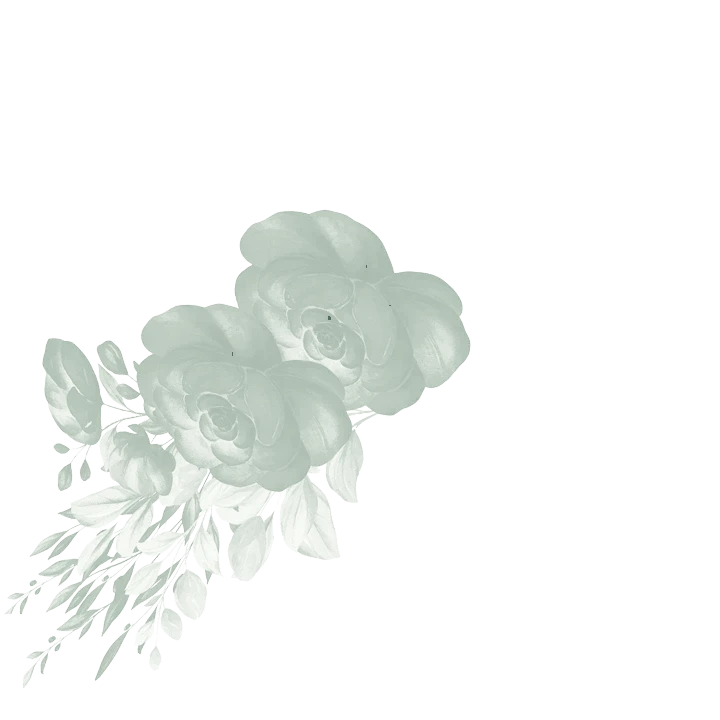
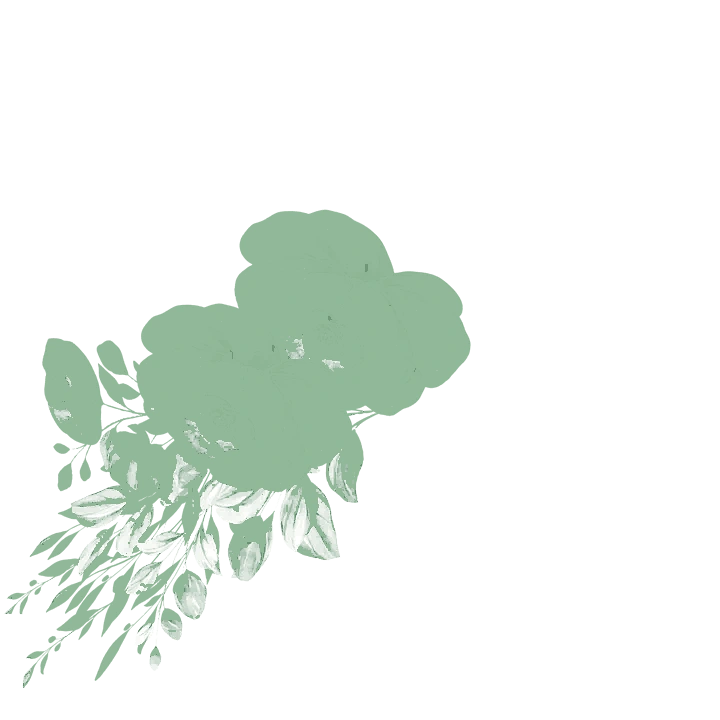
fix(movement): hide navbar and ornaments on cover, refine flower colors to crisp white and vivid sage with bronze leaves, and scroll to first page on open

Changed region(s): [[0.0, 0.275, 0.6722, 0.9472]]

diff --git a/public/templates/movement/index.html b/public/templates/movement/index.html
@@ -126,25 +126,10 @@
  <div class="wds-cover-dialog">
  <div class="wds-cover-content">
  <div class="wds-cover-overlay"></div>
- 
- <!-- Corner Flowers with subtle swaying animations -->
- <div class="wds-cover-flower wds-flower-top-right goyang-1">
-   <img src="./assets/flower_sage_1.webp" alt="Flower Top Right" />
- </div>
- <div class="wds-cover-flower wds-flower-bottom-left goyang-2">
-   <img src="./assets/flower_sage_2.webp" alt="Flower Bottom Left" />
- </div>
- <div class="wds-cover-flower wds-flower-top-left goyang-3">
-   <img src="./assets/flower_sage_3.webp" alt="Flower Top Left" />
- </div>
 
  <div class="wds-cover-body">
  <div class="centered-box">
  <div style="text-align:center; width:100%;">
- 
- <div class="elementor-image wds-image-cover">
-   <img src="./assets/ornament_header.webp" style="max-width:180px;height:auto;display:inline-block;" alt="Header Ornament" />
- </div>
  
  <div class="wds-text-cover">The Wedding Of</div>
  
@@ -1888,6 +1873,37 @@ Penerima: alamat kado">
 /* =====================================================================
    WDS COVER MODAL (SAGE GREEN THEME - DARI COVER MOVEMENT)
    ===================================================================== */
+
+/* =====================================================================
+   HIDE NAVBAR & FLOATING CONTROLS WHILE COVER IS ACTIVE
+   ===================================================================== */
+body:not(.wds-opened) .elementor-element-32e9e884,
+body:not(.wds-opened) section.elementor-element-32e9e884,
+body:not(.wds-opened) .storykami-floating-controls,
+body.wds-cover-active .elementor-element-32e9e884,
+body.wds-cover-active section.elementor-element-32e9e884,
+body.wds-cover-active .storykami-floating-controls {
+  display: none !important;
+  opacity: 0 !important;
+  visibility: hidden !important;
+  pointer-events: none !important;
+}
+
+body.wds-opened .elementor-element-32e9e884,
+body.wds-opened section.elementor-element-32e9e884,
+body.wds-opened .storykami-floating-controls {
+  display: flex !important;
+  opacity: 1 !important;
+  visibility: visible !important;
+  pointer-events: auto !important;
+  animation: fadeInNavbar 0.6s ease forwards;
+}
+
+@keyframes fadeInNavbar {
+  from { opacity: 0; transform: translateY(20px); }
+  to { opacity: 1; transform: translateY(0); }
+}
+
 .wds-cover {
   position: fixed;
   top: 0;
@@ -3429,10 +3445,8 @@ Penerima: alamat kado">
       }, 850);
     }
 
-    const targetSec = document.getElementById('couple') || document.querySelector('.elementor-element-62145ec2');
-    if (targetSec) {
-      targetSec.scrollIntoView({ behavior: 'smooth' });
-    }
+    // Menuju halaman pertama (top: 0)
+    window.scrollTo({ top: 0, behavior: 'smooth' });
   });
 
   // --- Viewport Intersection Observer for Flowers (bergerak saat tampil di layar, diam saat tidak tampil) ---
